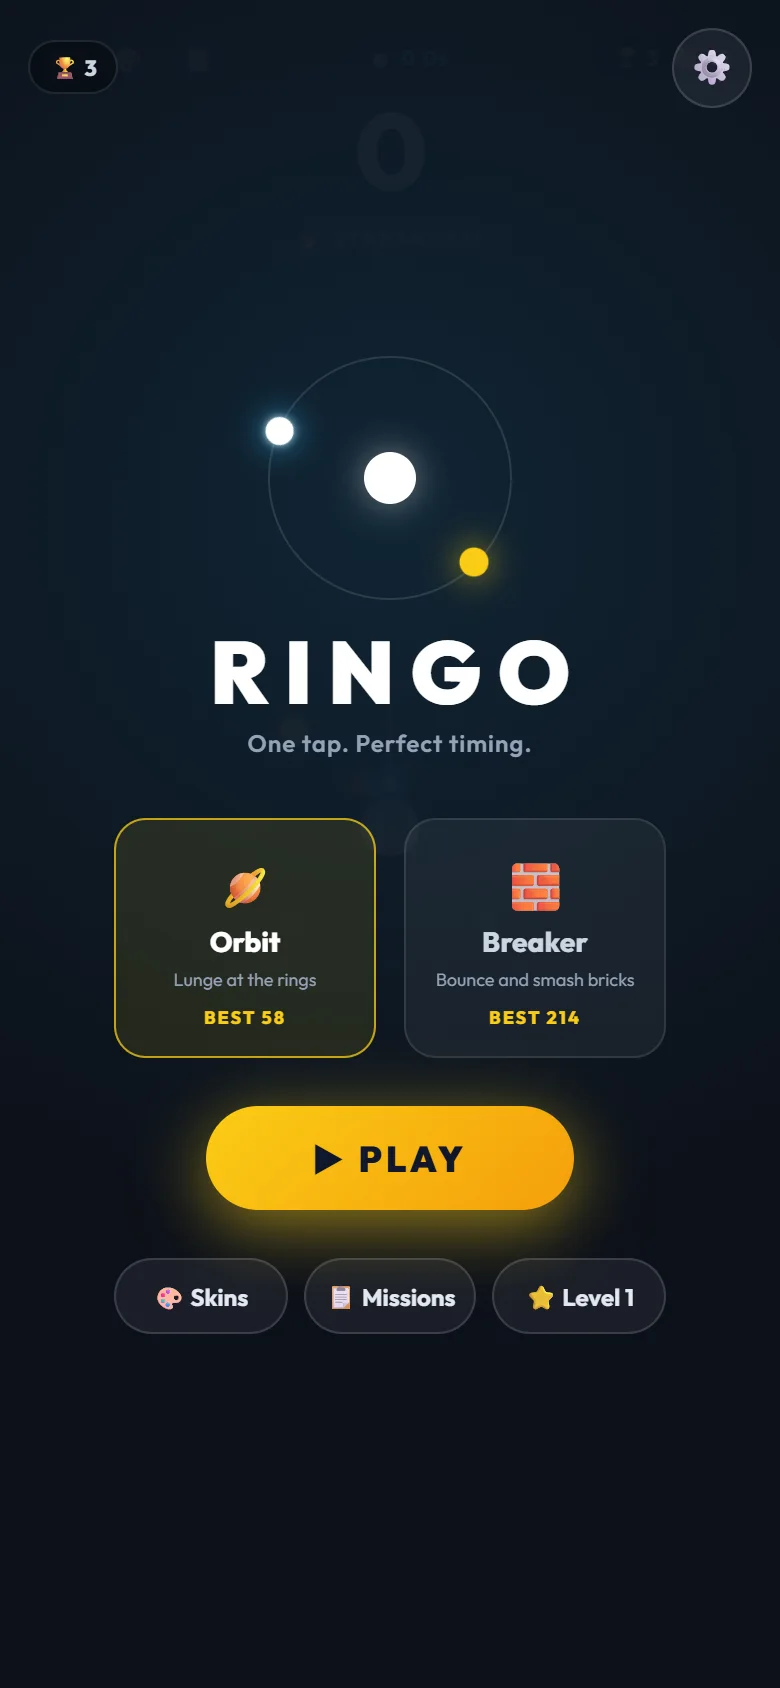
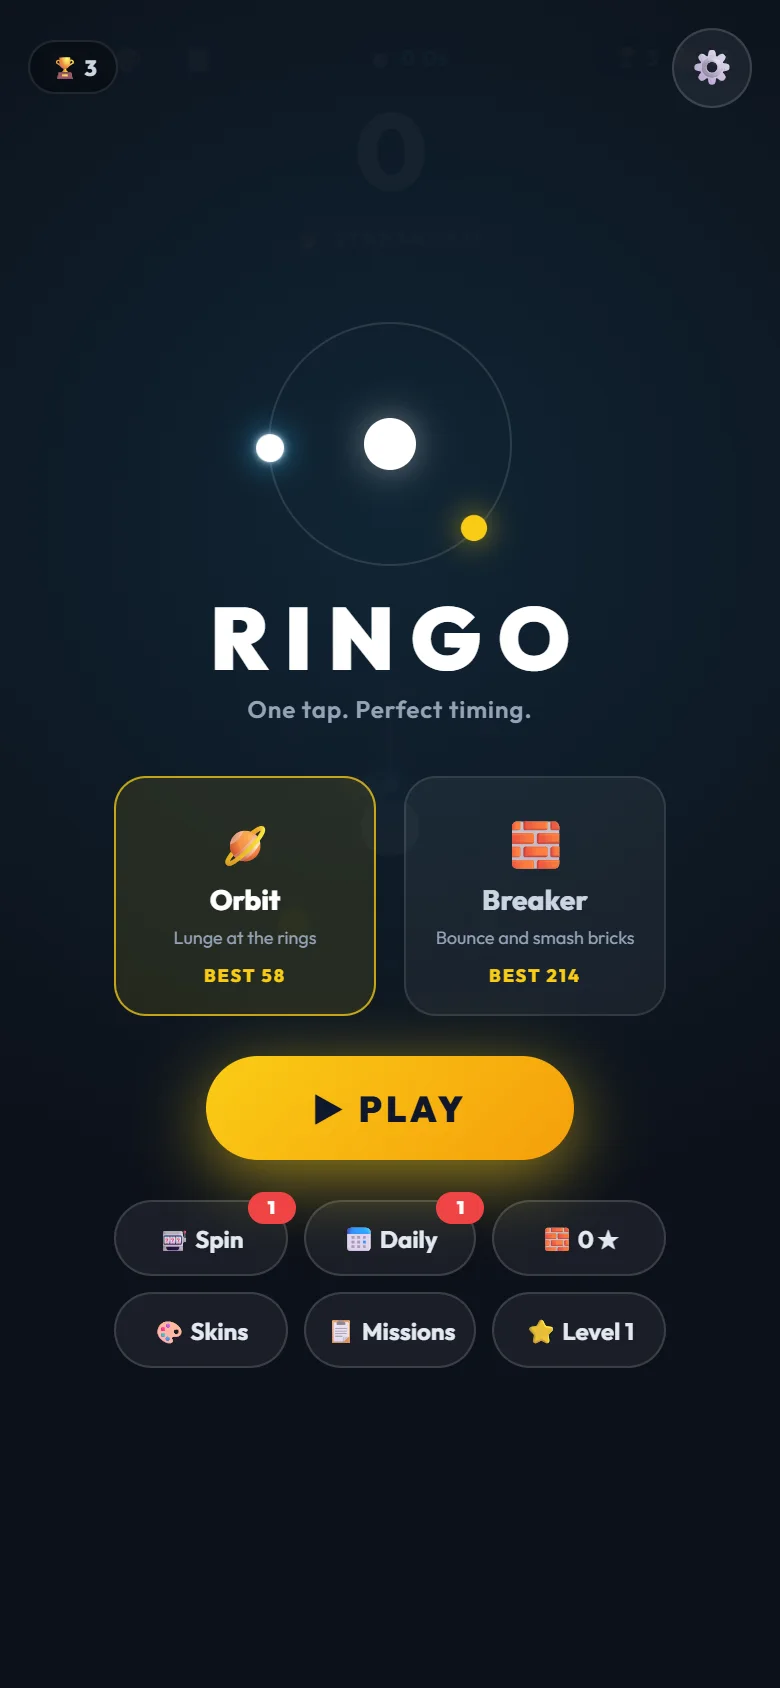
Update the home page for the new Breaker features
Fresh screenshots, plus copy for the Daily Challenge, Lucky Spin, music,
stars and skin upgrades.

diff --git a/index.html b/index.html
@@ -477,7 +477,7 @@
           </div>
           <h1>RINGO</h1>
           <p class="tagline">One tap. Perfect timing.</p>
-          <p class="lede">Simple to learn and hard to put down. Time your tap through spinning rings, then earn Breaker, where you bounce, smash and power up through wave after wave of bricks.</p>
+          <p class="lede">Simple to learn and hard to put down. Time your tap through spinning rings, then earn Breaker, where you bounce, smash and power up through level after level of bricks.</p>
           <div class="badge-soon">Coming soon to Google Play</div>
           <p class="platform">For Android phones</p>
         </div>
@@ -534,10 +534,10 @@
             </figure>
             <div>
               <h3>🧱 Breaker</h3>
-              <p>Drag the bar, bounce the ball and smash the bricks. Catch falling perks like Ball Multiplier, Fireball and Laser Bar.</p>
+              <p>Drag the bar, bounce the ball and smash the bricks. Catch perks like Ball Multiplier and Fireball, and save up for a Power Shot.</p>
               <ul class="unlocks">
                 <li><strong>50</strong> in Orbit unlocks it</li>
-                <li><strong>5</strong> waves to each boss</li>
+                <li><strong>3</strong> bosses with their own tricks</li>
               </ul>
             </div>
           </article>
@@ -560,19 +560,19 @@
               <p>Each has its own trail and perk, from a shield to a wider hit window.</p>
             </div>
             <div class="perk">
-              <span class="perk-icon" aria-hidden="true">📋</span>
-              <h3>Daily missions</h3>
-              <p>Three new missions every day, plus a free daily gift.</p>
+              <span class="perk-icon" aria-hidden="true">📅</span>
+              <h3>Something new every day</h3>
+              <p>A Daily Challenge level, three new missions, a free gift and a Lucky Spin.</p>
             </div>
             <div class="perk">
-              <span class="perk-icon" aria-hidden="true">🏅</span>
-              <h3>Achievements</h3>
-              <p>Nine to unlock, including scoring 100 in a single run.</p>
+              <span class="perk-icon" aria-hidden="true">🎵</span>
+              <h3>Music that follows you</h3>
+              <p>The beat picks up with your combo and peaks during Fever.</p>
             </div>
             <div class="perk">
               <span class="perk-icon" aria-hidden="true">⭐</span>
-              <h3>Levels and stats</h3>
-              <p>Earn XP from every run and track your all-time numbers.</p>
+              <h3>Stars and upgrades</h3>
+              <p>Earn up to three stars on every Breaker level, and level up your favourite skins.</p>
             </div>
           </div>
         </div>
